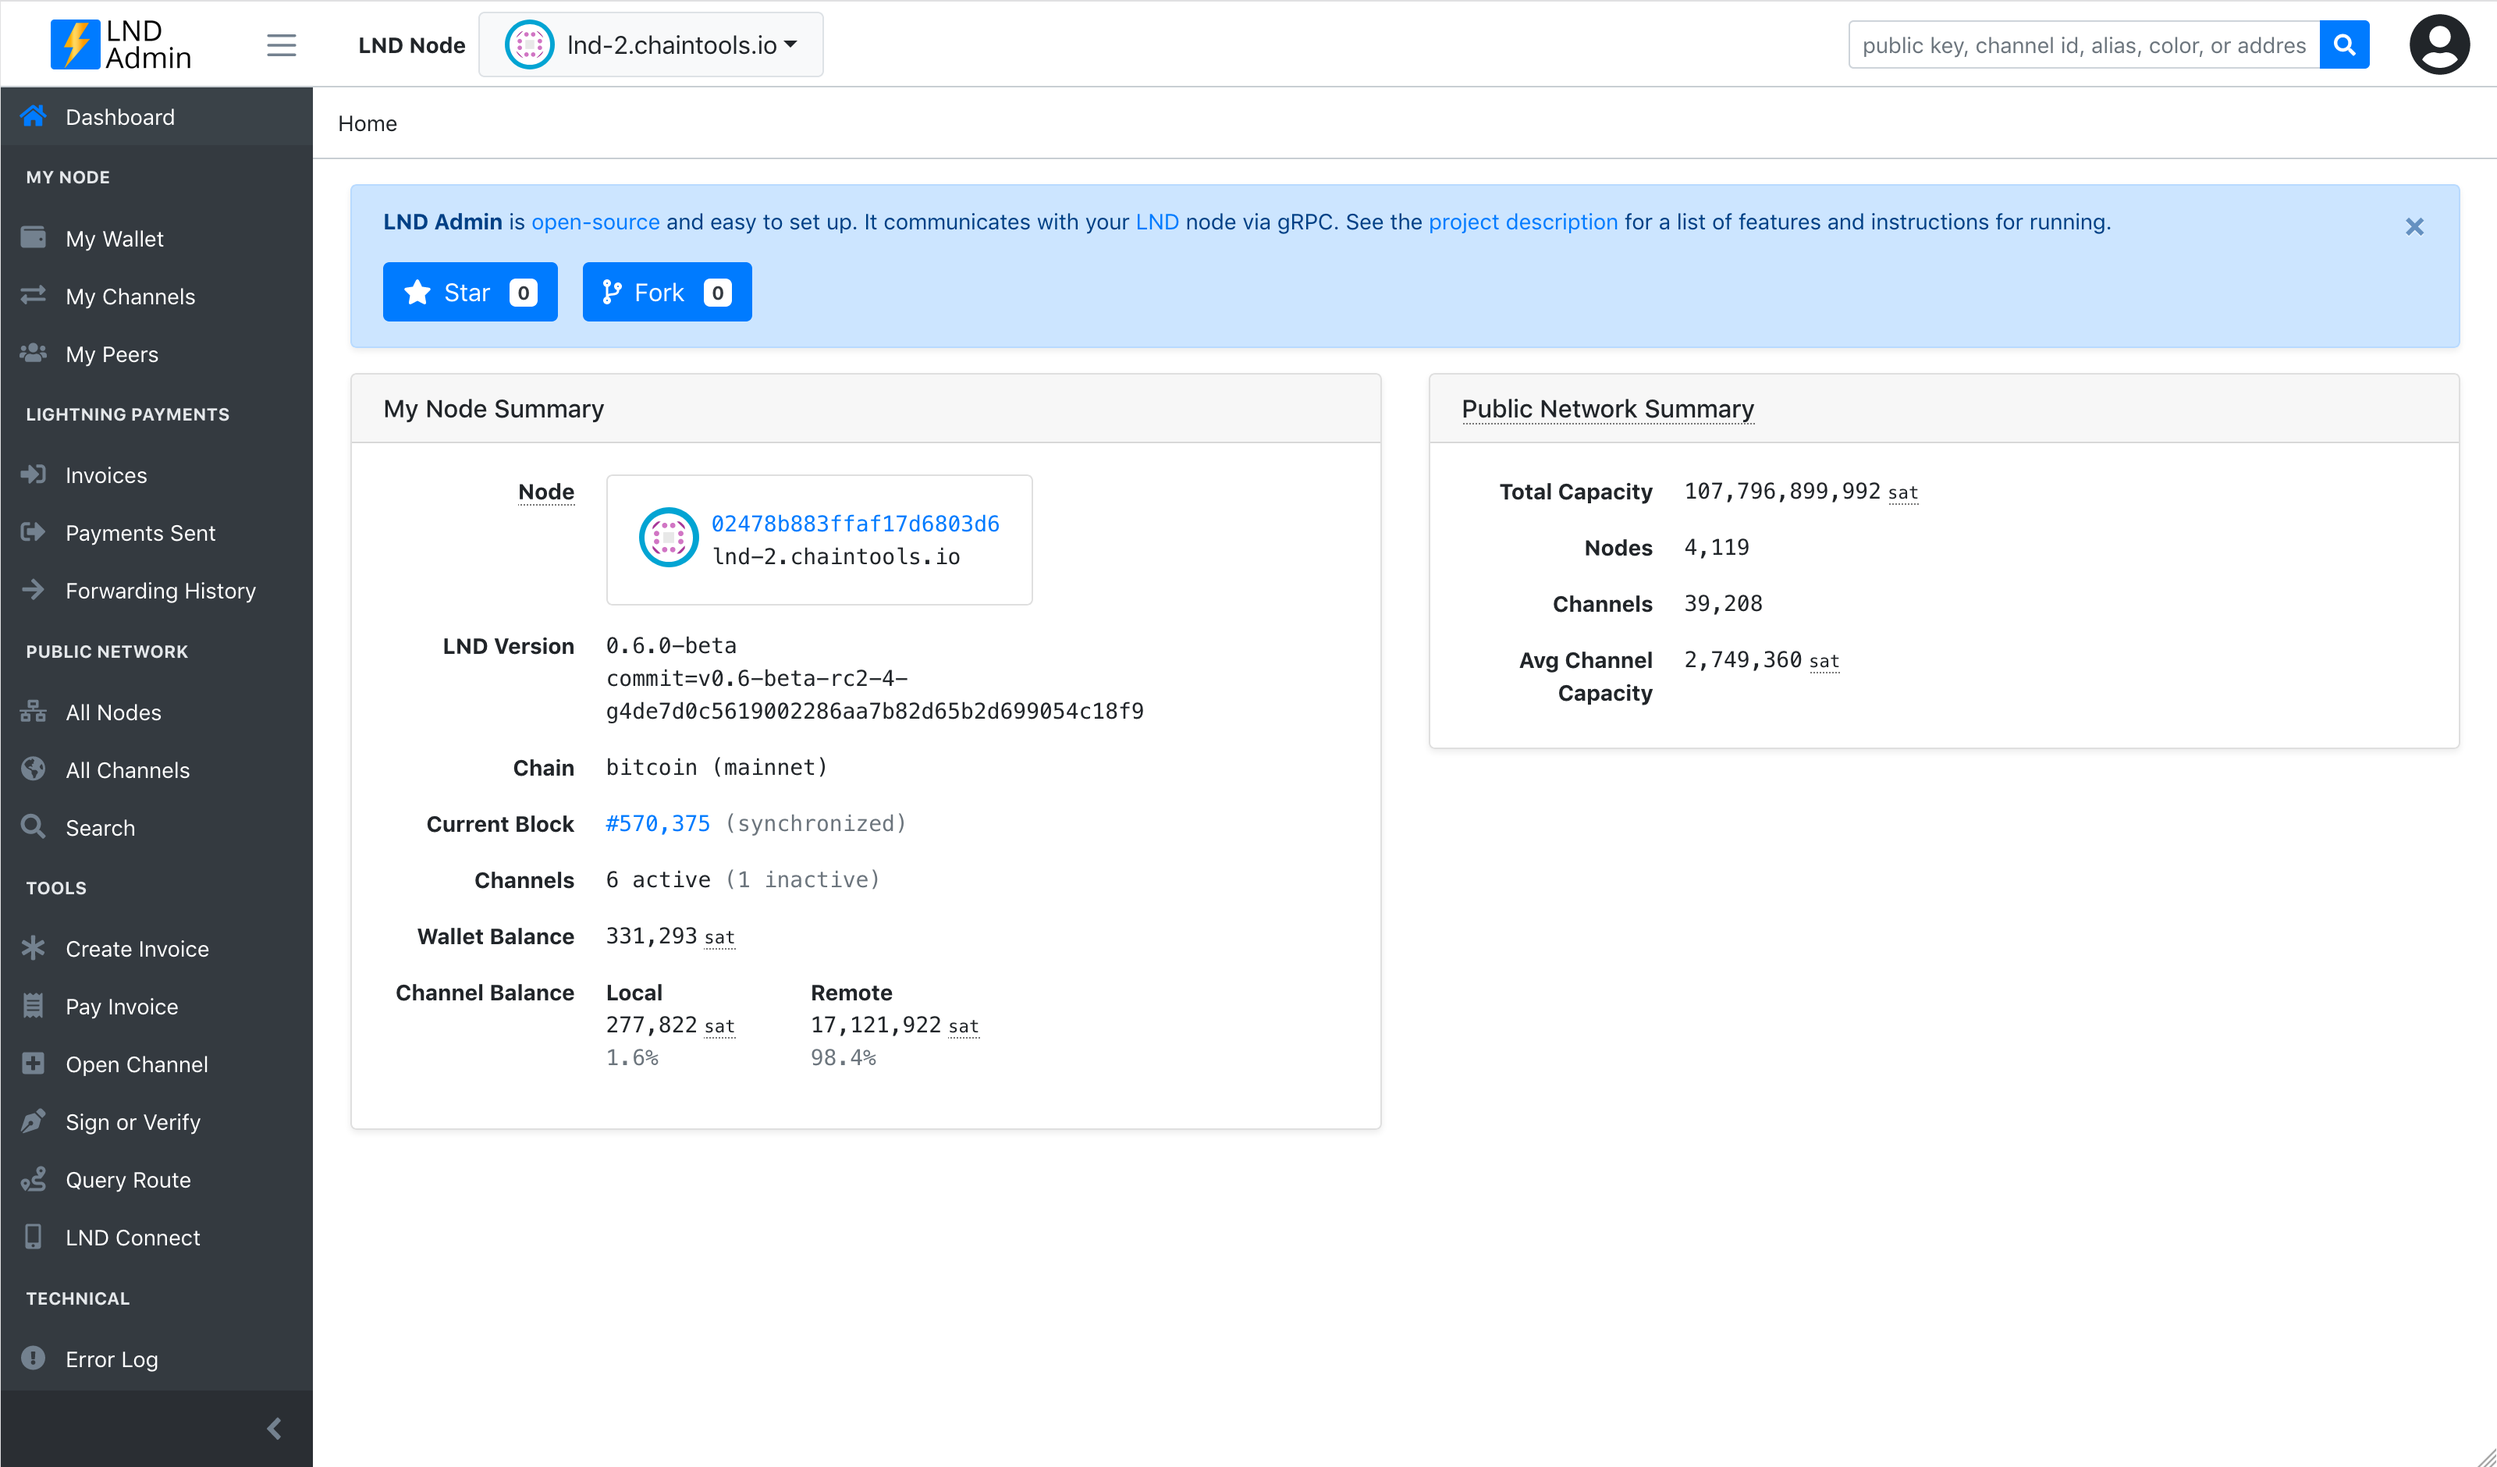
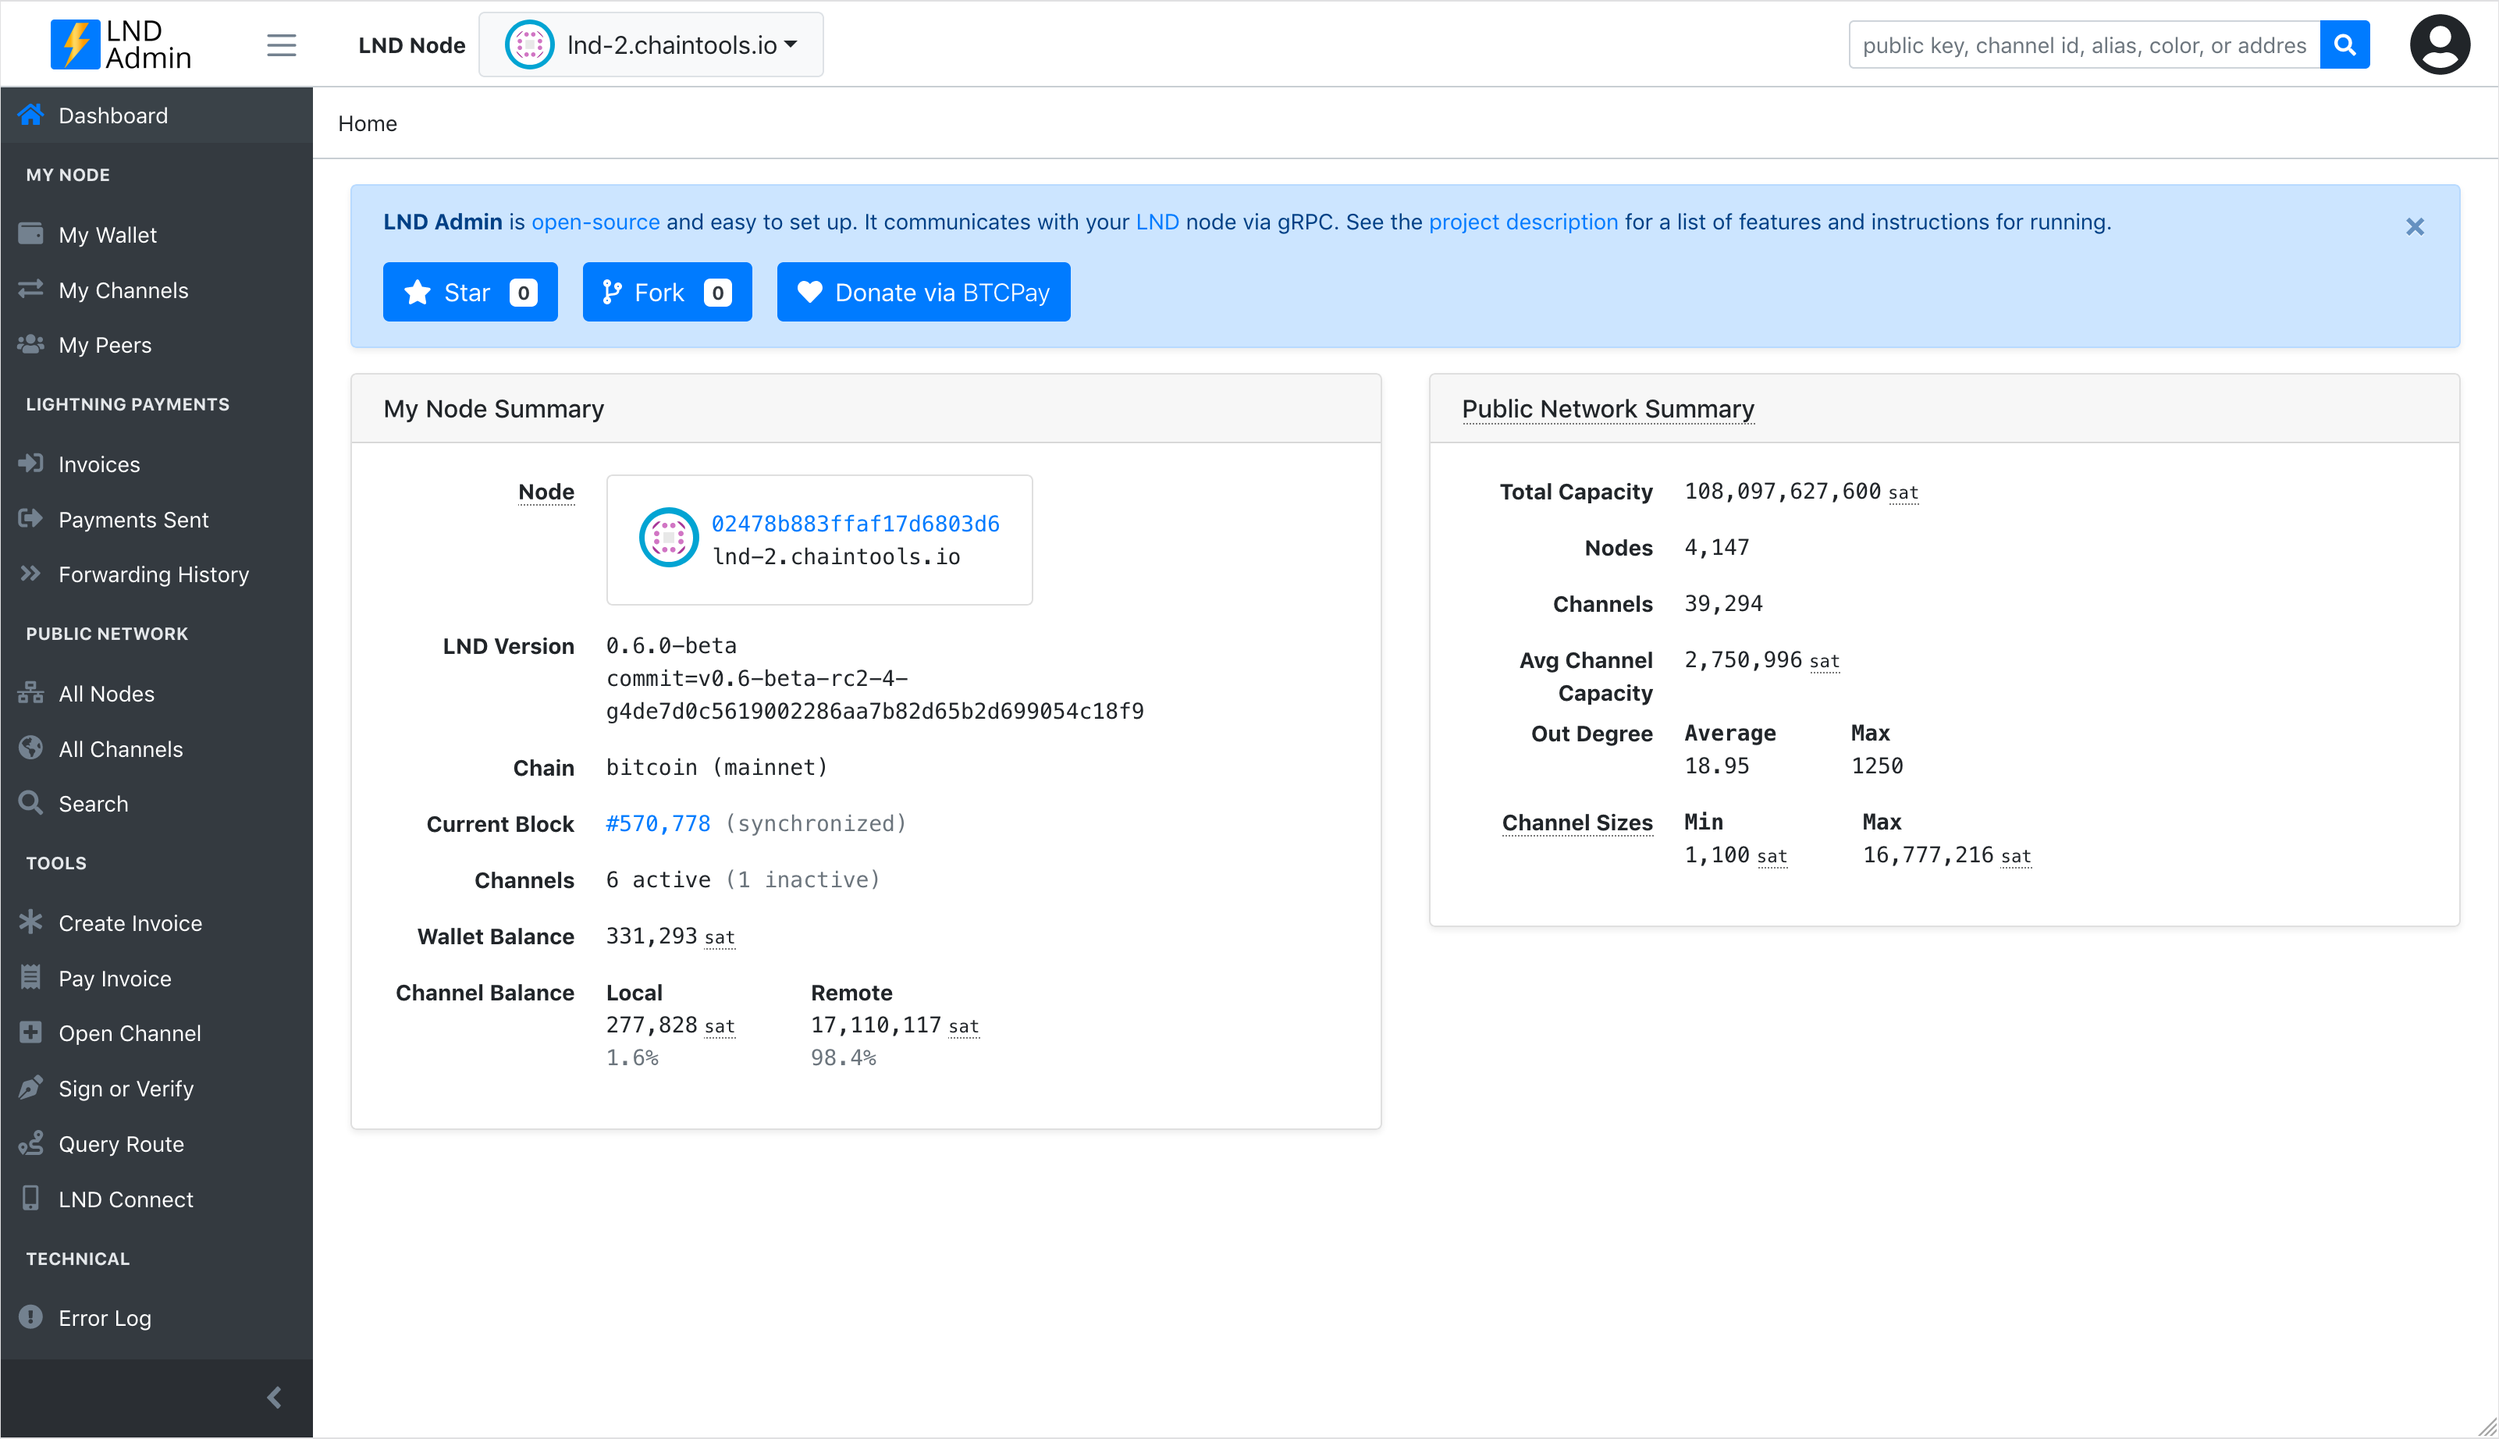
tighten up sidebar spacing

diff --git a/public/css/styling.css b/public/css/styling.css
@@ -78,6 +78,14 @@ table.dataTable {
 	font-size: 1rem;
 }
 
+.sidebar .nav-link {
+	padding: 0.45rem 0.65rem;
+}
+
+.sidebar .nav-link .nav-icon {
+	margin-right: 0.325rem !important;
+}
+
 
 
 .tab-content, .tab-pane {
